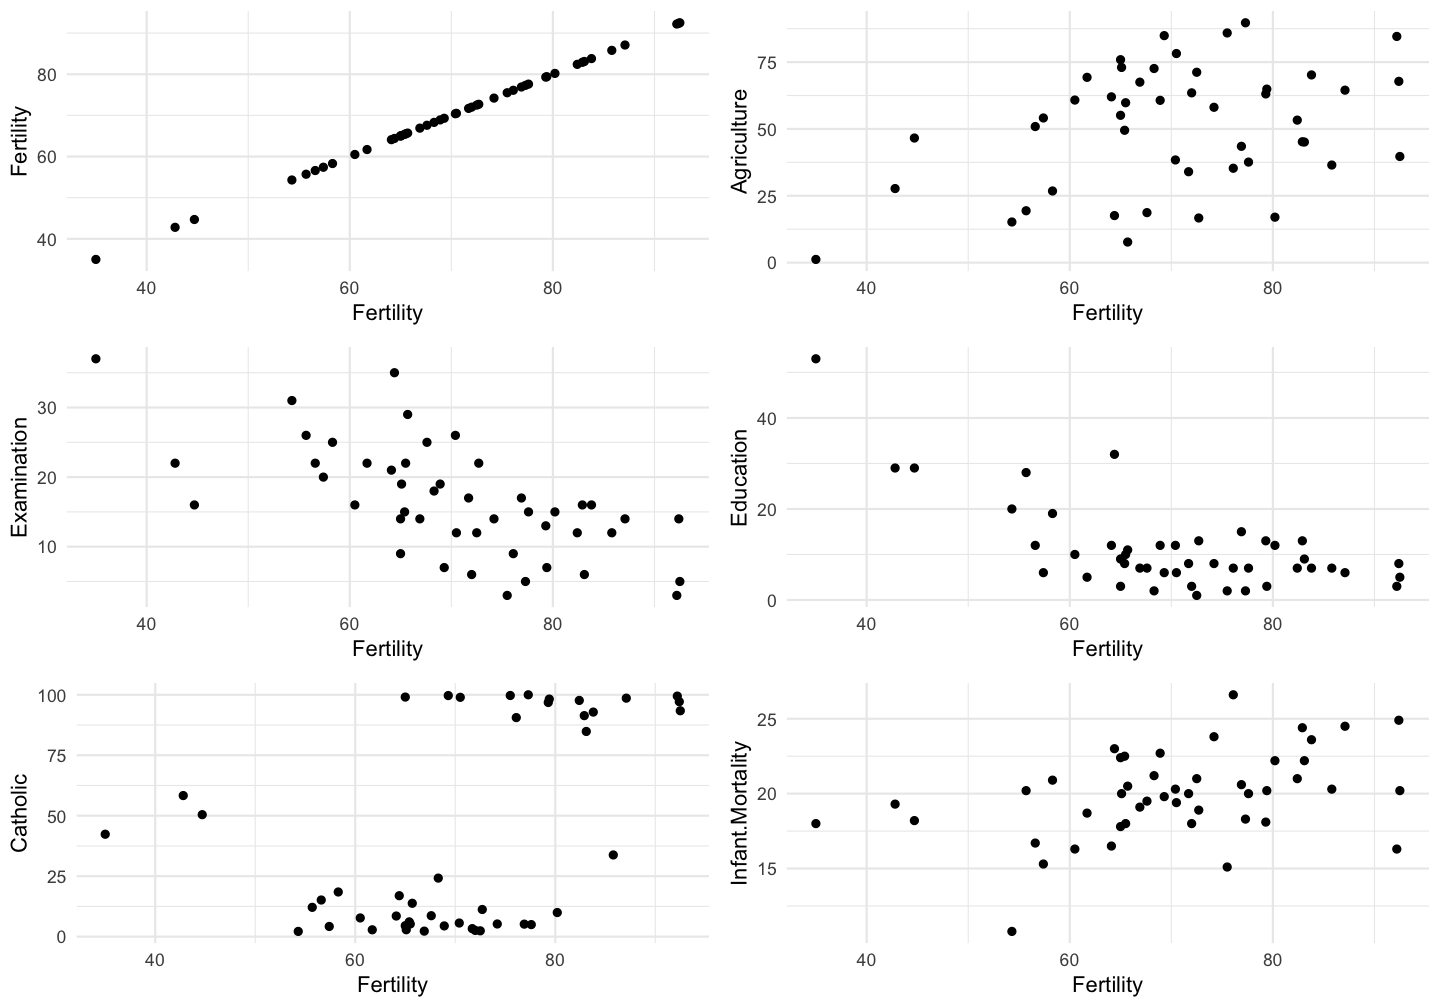
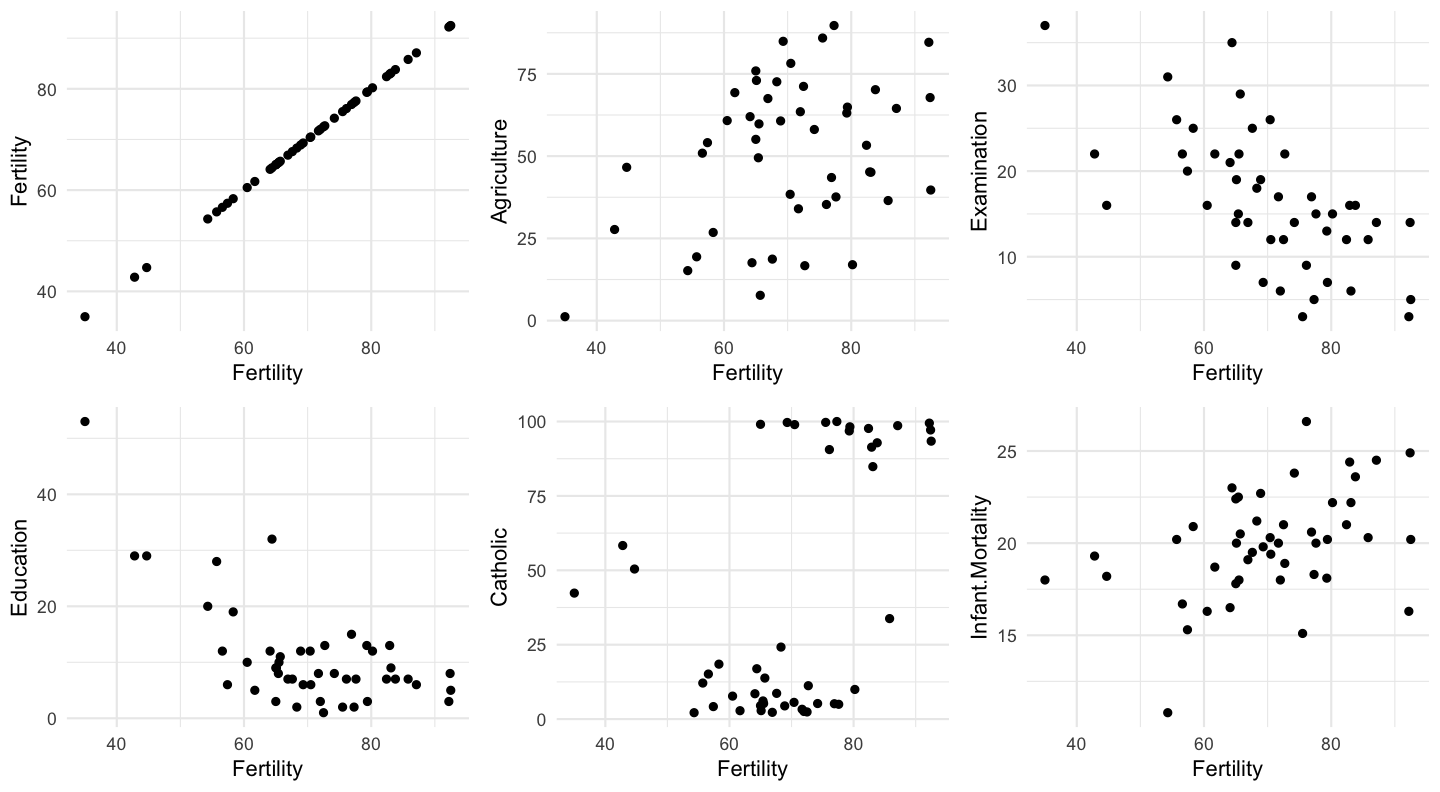
Size imap example

diff --git a/Slides/Modeling/Modeling.html b/Slides/Modeling/Modeling.html
@@ -45,7 +45,7 @@ library(tidyverse)
 ```
 
 ```
-  ── Attaching packages ───────────────────────────────────────────────────────────────────── tidyverse 1.2.1 ──
+  ── Attaching packages ─────────────────────────────────────────────────────────────────────────── tidyverse 1.2.1 ──
 ```
 
 ```
@@ -56,7 +56,7 @@ library(tidyverse)
 ```
 
 ```
-  ── Conflicts ──────────────────────────────────────────────────────────────────────── tidyverse_conflicts() ──
+  ── Conflicts ────────────────────────────────────────────────────────────────────────────── tidyverse_conflicts() ──
   ✖ dplyr::filter() masks stats::filter()
   ✖ dplyr::lag()    masks stats::lag()
 ```
@@ -703,6 +703,7 @@ pmap(list(n = c(2, 3, 2, 5), min = 1:4, max = c(2, 5, 5, 10)), runif)
 `walk()` and variants are designed for side-effects function and return the input
 
 ---
+class: nologo
 ## `imap*()` 
 
 `imap(x, fun)` is equivalent to `map2(x, names(x), fun)` 
@@ -713,13 +714,14 @@ pmap(list(n = c(2, 3, 2, 5), min = 1:4, max = c(2, 5, 5, 10)), runif)
 ```r
 imap(swiss, ~ ggplot(swiss, aes(x = Fertility, y = .x)) + 
        geom_point() + labs(x = "Fertility", y = .y)) %&gt;%
-  gridExtra::grid.arrange(grobs = .)
+  gridExtra::grid.arrange(grobs = ., ncol = 3)
 ```
 
 &lt;img src="Modeling_files/figure-html/unnamed-chunk-29-1.png" width="720" style="display: block; margin: auto;" /&gt;
 
 ---
 count:false
+class: nologo
 ## `imap*()`  
 
 `imap(x, fun)` is equivalent to `map2(x, names(x), fun)` 
@@ -729,7 +731,7 @@ count:false
 swiss %&gt;%
   imap(., function(x, y) ggplot(., aes(x = Fertility, y = x)) + 
          geom_point() + labs(x = "Fertility", y = y)) %&gt;%
-  gridExtra::grid.arrange(grobs = .)
+  gridExtra::grid.arrange(grobs = ., ncol = 3)
 ```
 
 &lt;img src="Modeling_files/figure-html/unnamed-chunk-30-1.png" width="720" style="display: block; margin: auto;" /&gt;
@@ -1453,7 +1455,7 @@ library(tidymodels)
 ```
 
 ```
-  ── Attaching packages ──────────────────────────────────────────────────────────────────── tidymodels 0.0.1 ──
+  ── Attaching packages ────────────────────────────────────────────────────────────────────────── tidymodels 0.0.1 ──
 ```
 
 ```
@@ -1463,7 +1465,7 @@ library(tidymodels)
 ```
 
 ```
-  ── Conflicts ─────────────────────────────────────────────────────────────────────── tidymodels_conflicts() ──
+  ── Conflicts ───────────────────────────────────────────────────────────────────────────── tidymodels_conflicts() ──
   ✖ rsample::fill()    masks tidyr::fill()
   ✖ dplyr::filter()    masks stats::filter()
   ✖ recipes::fixed()   masks stringr::fixed()
